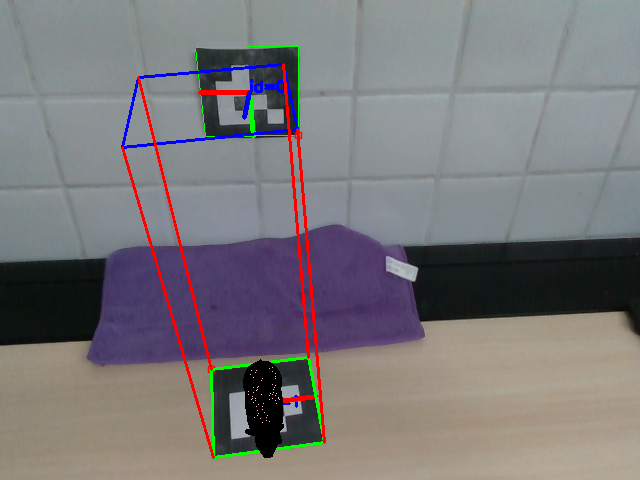
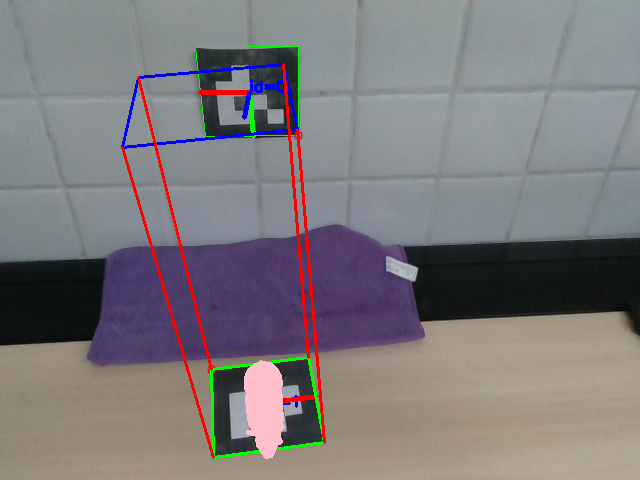
pig color

Changed region(s): [[0.375, 0.75, 0.4688, 0.9688]]

diff --git a/utils/augmented_reality_marker.py b/utils/augmented_reality_marker.py
@@ -1,6 +1,5 @@
 import cv2
 import numpy as np
-import itertools
 import trimesh
 
 from utils.camera_math import CameraMathUtils
@@ -8,8 +7,7 @@ from utils.camera_math import CameraMathUtils
 
 class ARMarker(CameraMathUtils):
     def __init__(self, camera_params_path, marker_length, base_marker_id: int = 1,
-                 model_path="database/models/16433_Pig.obj",
-                 mtl_path="database/models/Blank.mtl"):
+                 model_path="database/models/16433_Pig.obj"):
         
         # Load camera intrinsic parameters
         data = np.load(camera_params_path)
@@ -23,7 +21,7 @@ class ARMarker(CameraMathUtils):
         self.parameters = cv2.aruco.DetectorParameters()
         self.detector = cv2.aruco.ArucoDetector(self.aruco_dict, self.parameters)
 
-        # ⚠ Faltava isso aqui!
+        # Local 3D coordinates of marker corners
         self.marker_obj_points = np.array([
             [-self.marker_length / 2,  self.marker_length / 2, 0],
             [ self.marker_length / 2,  self.marker_length / 2, 0],
@@ -34,29 +32,13 @@ class ARMarker(CameraMathUtils):
         # Load 3D model
         self.mesh = trimesh.load(model_path, force="mesh")
 
-        # If user passes .mtl path, try to merge colors
-        self.mtl_colors = None
-        if mtl_path is not None:
-            self.mtl_colors = self._load_mtl_colors(mtl_path)
-
         # Normalize/center model
         self.mesh.apply_translation(-self.mesh.centroid)
         scale = self.marker_length / max(self.mesh.extents)
         self.mesh.apply_scale(scale)
 
-    def _load_mtl_colors(self, mtl_path):
-        """Parse a .mtl file for diffuse colors (Kd)."""
-        colors = {}
-        current = None
-        with open(mtl_path, "r") as f:
-            for line in f:
-                if line.startswith("newmtl"):
-                    current = line.split()[1].strip()
-                elif line.startswith("Kd") and current:
-                    vals = [float(v) for v in line.split()[1:4]]
-                    rgb = tuple(int(v*255) for v in vals)
-                    colors[current] = rgb
-        return colors
+        # Fixed pink color (BGR)
+        self.fixed_color = np.array([203, 192, 255])
 
     # -------------------------------------------------------------------------
     def detect_markers(self, gray_frame):
@@ -103,40 +85,27 @@ class ARMarker(CameraMathUtils):
     # -------------------------------------------------------------------------
     def draw_obj(self, frame, rvec, tvec):
         vertices = np.asarray(self.mesh.vertices, dtype=np.float32)
-        faces = np.asarray(self.mesh.faces)
+        faces = np.asarray(self.mesh.faces, dtype=np.int32)
 
         projected, _ = cv2.projectPoints(vertices, rvec, tvec,
-                                         self.camera_matrix, self.dist_coeffs)
+                                        self.camera_matrix, self.dist_coeffs)
         projected = projected.reshape(-1, 2)
 
-        # Decide colors
-        if self.mtl_colors:  # preferir MTL
-            # aplica a primeira cor do MTL (simplificado, 1 material)
-            color_list = list(self.mtl_colors.values())
-            base_color = np.array(color_list[0][::-1])  # RGB->BGR
-            face_colors = np.tile(base_color, (len(faces), 1))
-        elif hasattr(self.mesh.visual, "face_colors") and len(self.mesh.visual.face_colors) > 0:
-            face_colors = self.mesh.visual.face_colors[:, :3]
-            if np.all(face_colors == 0):
-                pig_pink = np.array([203, 192, 255])
-                face_colors = np.tile(pig_pink, (len(faces), 1))
-        else:
-            pig_pink = np.array([203, 192, 255])
-            face_colors = np.tile(pig_pink, (len(faces), 1))
+        # Pintaremos sempre de rosa (BGR)
+        color = tuple(int(c) for c in self.fixed_color)
 
-        # Painter’s Algorithm
+        # Z médio por face para painter's algorithm (longe -> perto)
         R, _ = cv2.Rodrigues(rvec)
         verts_cam = (R @ vertices.T + tvec).T
-        z_means = [np.mean(verts_cam[face, 2]) for face in faces]
+        z_means = np.mean(verts_cam[faces, 2], axis=1)
         face_order = np.argsort(z_means)[::-1]
 
-        # Render
         for fi in face_order:
-            face = faces[fi]
-            pts = projected[face].astype(int).reshape(-1, 1, 2)
-            color = tuple(int(c) for c in face_colors[fi])
-            cv2.fillPoly(frame, [pts], color)
-            cv2.polylines(frame, [pts], True, (0, 0, 0), 1)
+            tri = projected[faces[fi]].round().astype(np.int32).reshape(-1, 1, 2)
+            # Triângulo é convexo → fillConvexPoly é ótimo aqui
+            cv2.fillConvexPoly(frame, tri, color)
+            # ❌ NÃO desenhar contorno preto de cada triângulo
+
 
     # -------------------------------------------------------------------------
     def process_frame(self, frame):
@@ -147,7 +116,6 @@ class ARMarker(CameraMathUtils):
             ids_flat = ids.flatten()
             cv2.aruco.drawDetectedMarkers(frame, corners, ids)
 
-            # Guarda todos os rvecs/tvecs
             rvecs, tvecs = {}, {}
             marker_corners = {}
             for corner, marker_id in zip(corners, ids_flat):
@@ -157,30 +125,24 @@ class ARMarker(CameraMathUtils):
                 marker_corners[marker_id] = corner
                 cv2.drawFrameAxes(frame, self.camera_matrix, self.dist_coeffs, rvec, tvec, 0.05)
 
-            # Se o marcador base foi detectado
-            # Se o marcador base foi detectado
             if self.base_marker_id in rvecs:
                 rvec_base = rvecs[self.base_marker_id]
                 tvec_base = tvecs[self.base_marker_id]
                 base_corners_img2d = marker_corners[self.base_marker_id].reshape(-1, 2)
 
-                # --- altura relativa: usa diferença entre base(id=1) e id=0 ---
                 if 0 in tvecs:
                     rel_pos = tvec_base - tvecs[0]
                     bbox_height = abs(float(rel_pos[1, 0]))  # eixo Y na câmera
                 else:
-                    bbox_height = float(self.marker_length * 0.5)  # fallback
+                    bbox_height = float(self.marker_length * 0.5)
 
-                # desenha bbox
                 bbox_points_3d_local = self.draw_bbox(
                     frame, rvec_base, tvec_base, base_corners_img2d, bbox_height
                 )
 
-                # imprime dimensões
                 w, d, h = self.bbox_dimensions(bbox_points_3d_local)
                 print(f"BBox dimensions -> W: {w:.3f} m, D: {d:.3f} m, H: {h:.3f} m")
 
-                # desenha o objeto (mantém escala fixa definida no __init__)
                 self.draw_obj(frame, rvec_base, tvec_base)
 
         return frame
